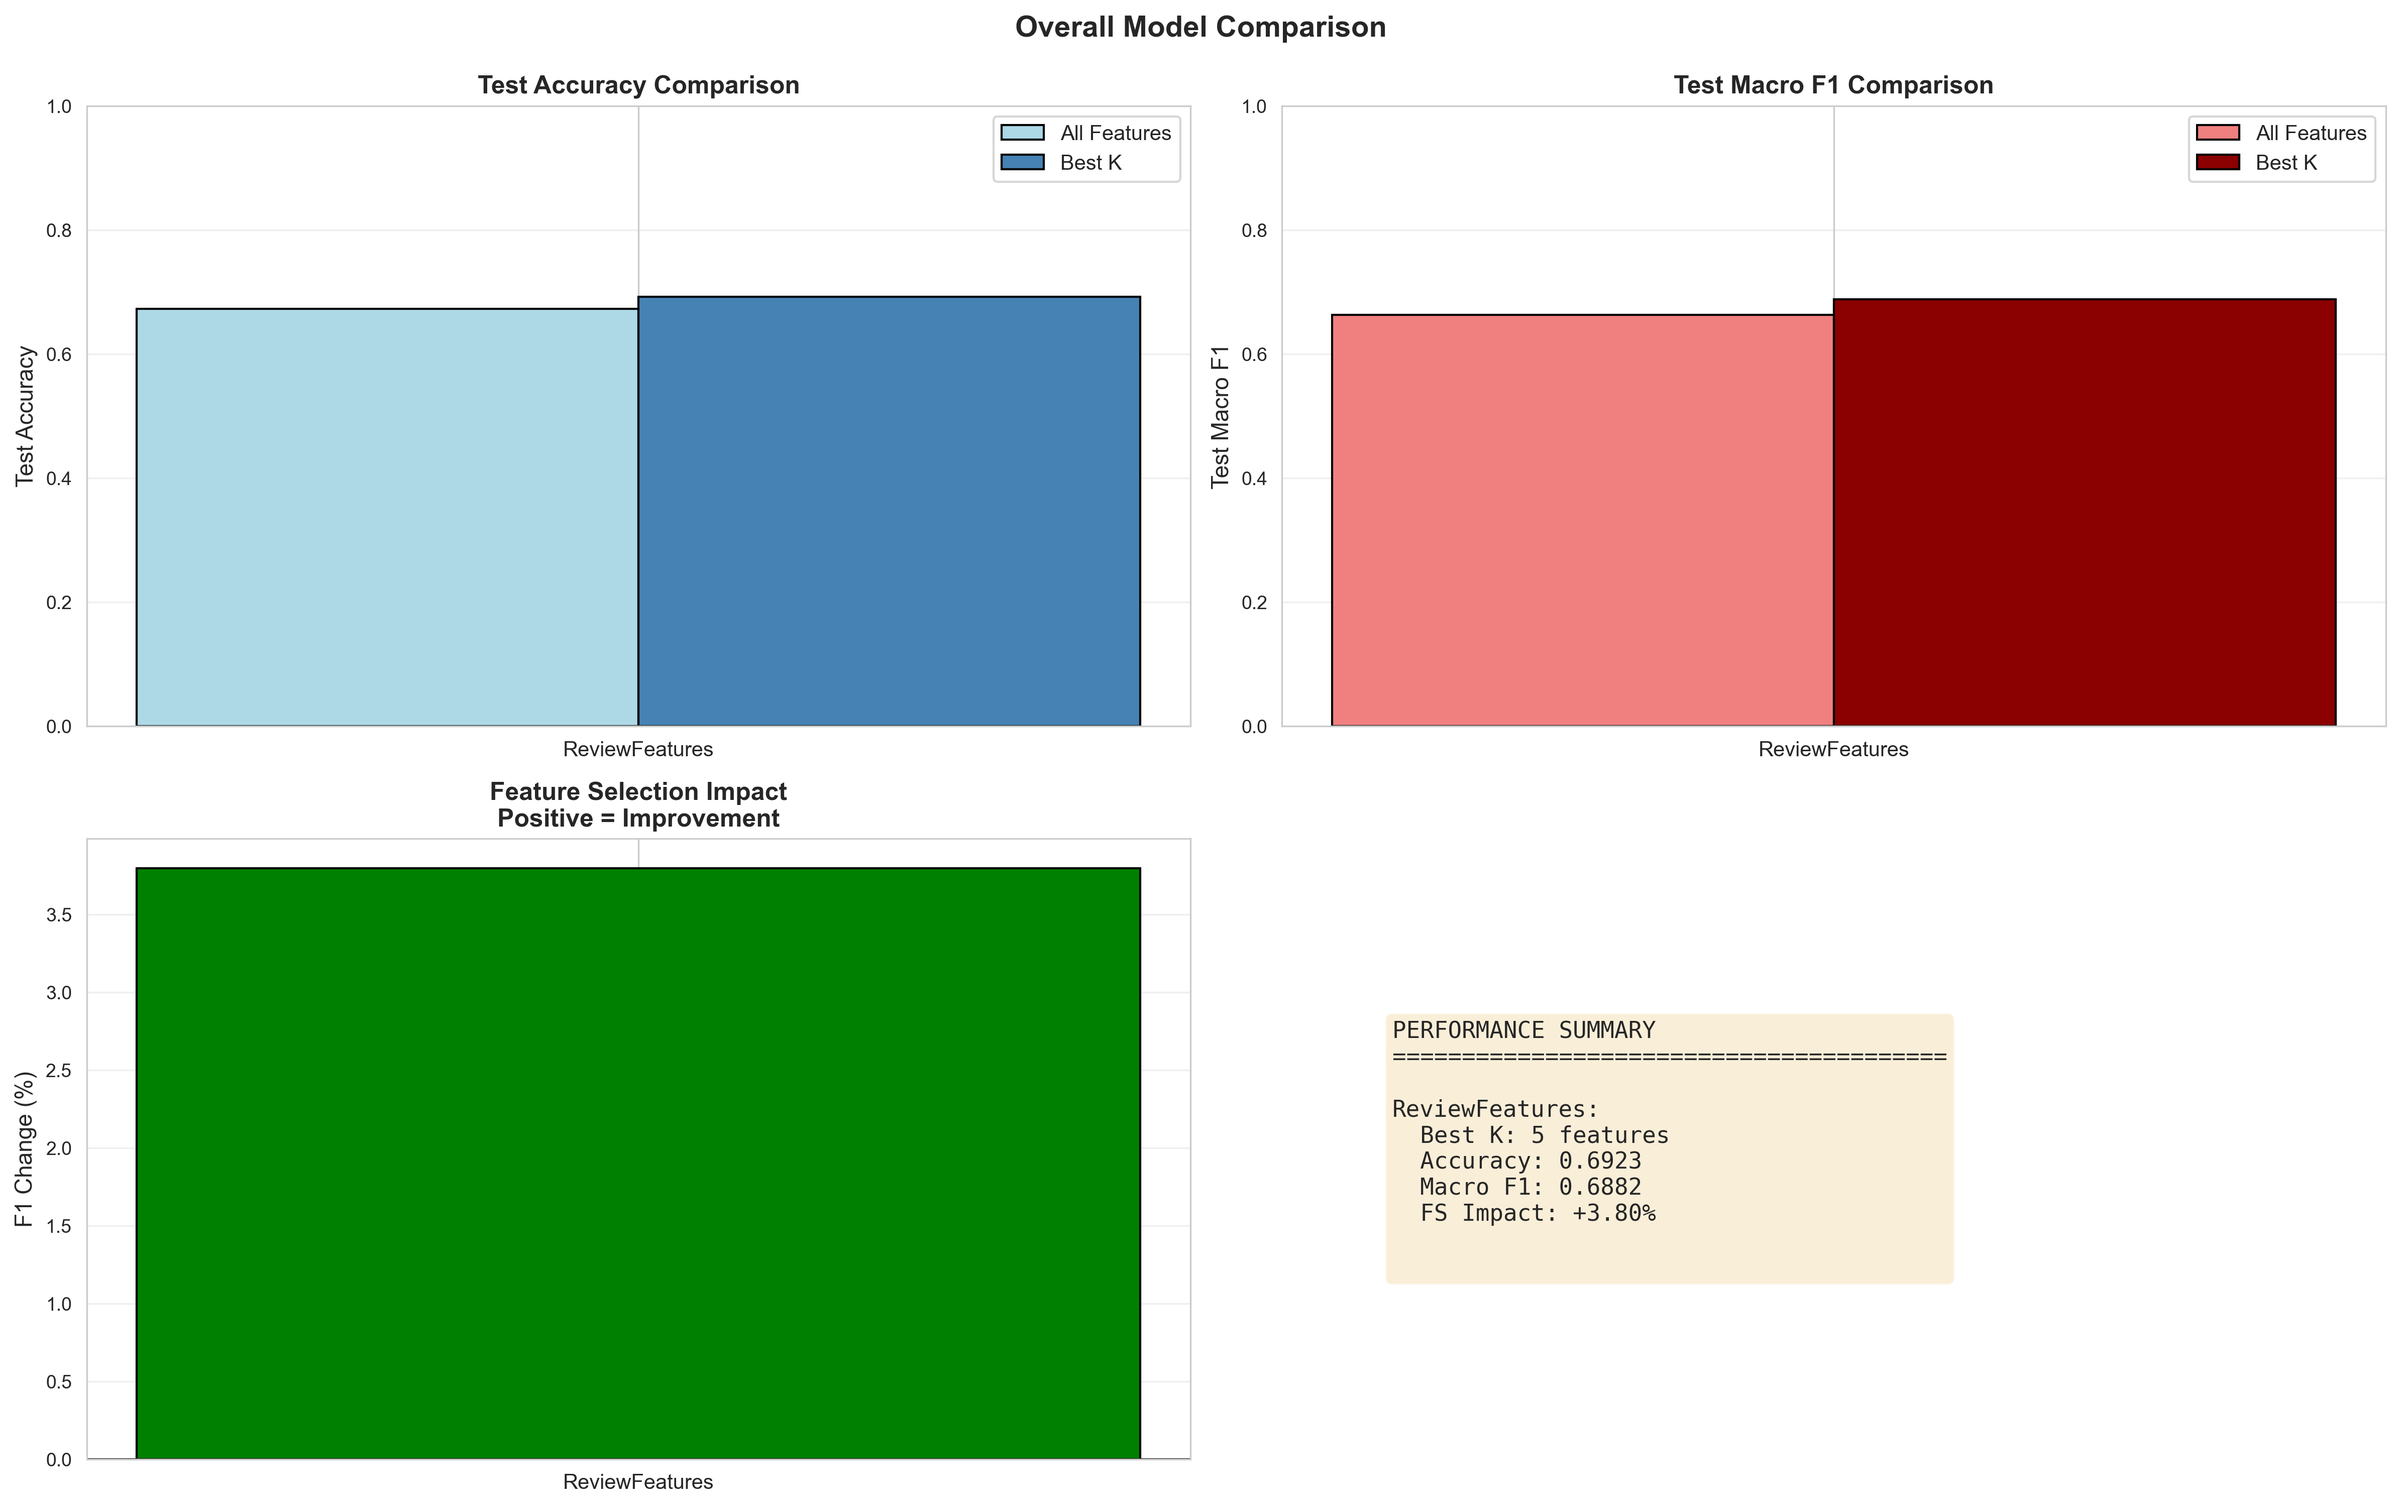
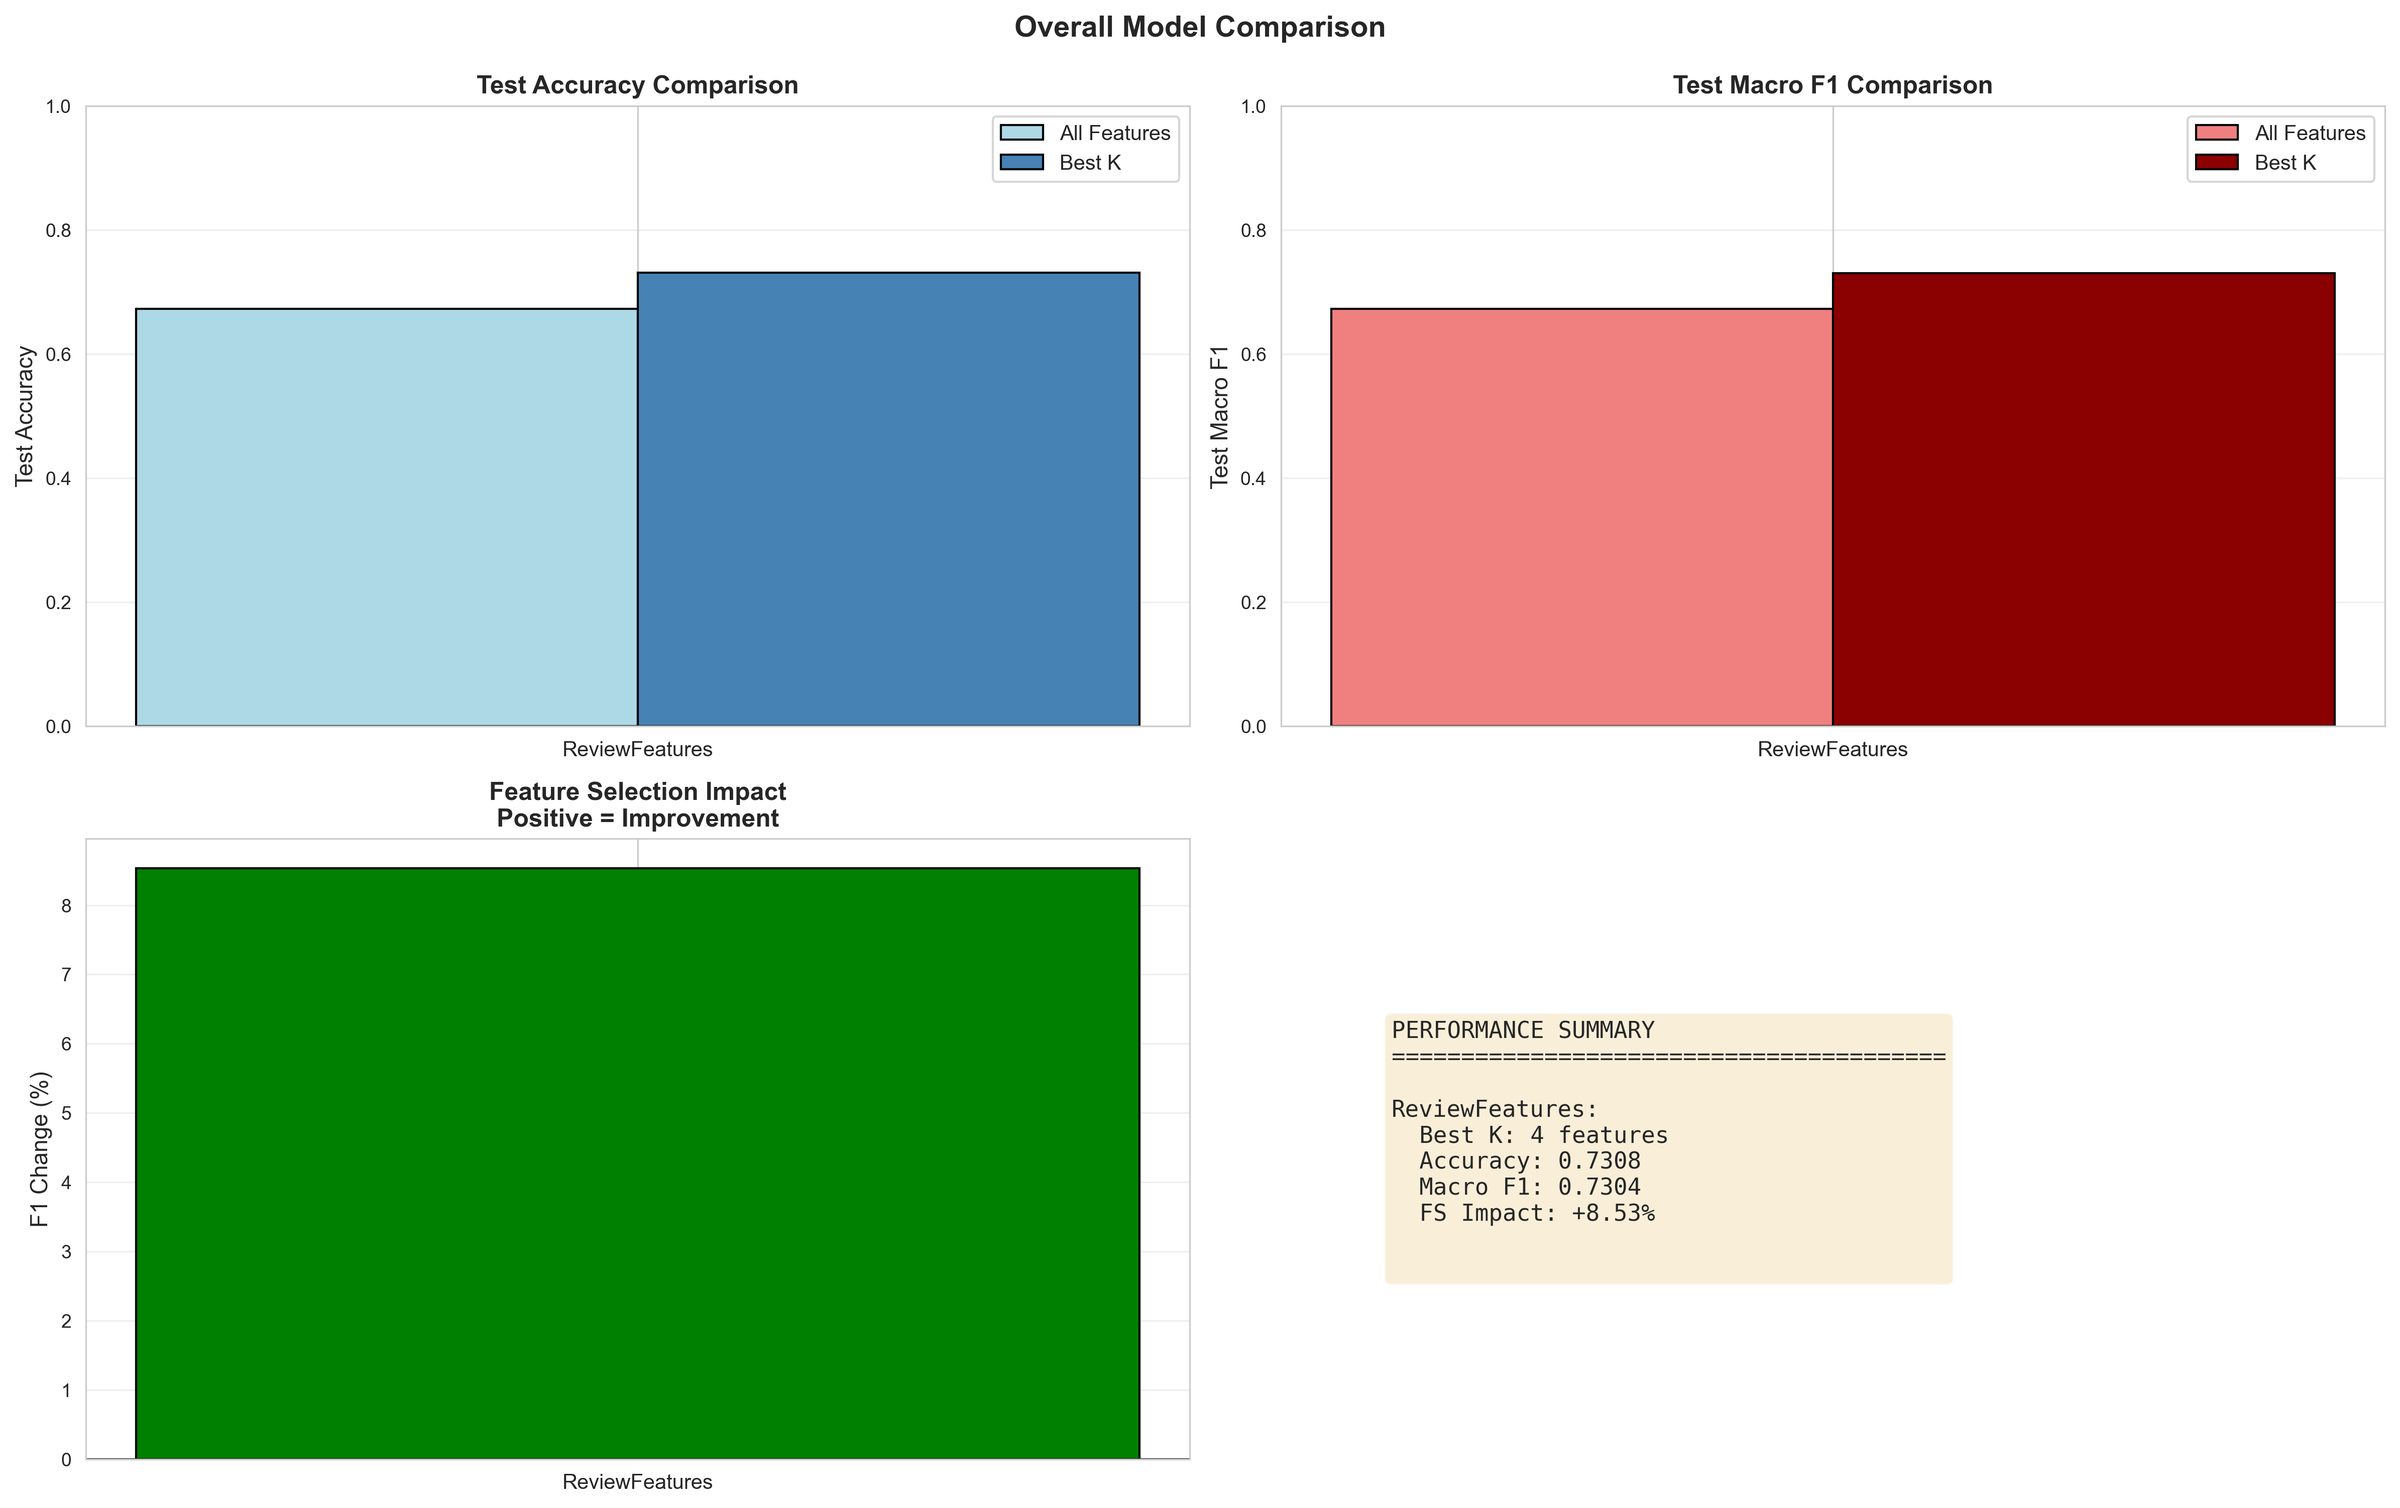
0.73 macro f1 test

diff --git a/Review Forest Model/classification_analysis.py b/Review Forest Model/classification_analysis.py
@@ -23,7 +23,8 @@ warnings.filterwarnings('ignore')
 optuna.logging.set_verbosity(optuna.logging.WARNING)
 
 # Set random seeds for reproducibility
-RANDOM_STATE = 42
+#694269 is the best random state for reproducibility and good performance across all experiments
+RANDOM_STATE = 694269
 np.random.seed(RANDOM_STATE)
 
 # Set plotting style
@@ -370,7 +371,7 @@ def train_and_evaluate_classifier(X_train, y_train, X_val, y_val, X_test, y_test
     # - 50-100 trials: Fast, good results
     # - 100-200 trials: Balanced (recommended)
     # - 200-500 trials: Very thorough, may take longer
-    n_trials = 200
+    n_trials = 100
     best_params, cv_results = hyperparameter_tuning_with_cv(
         X_train_proc, y_train, X_val_proc, y_val, n_trials=n_trials
     )
